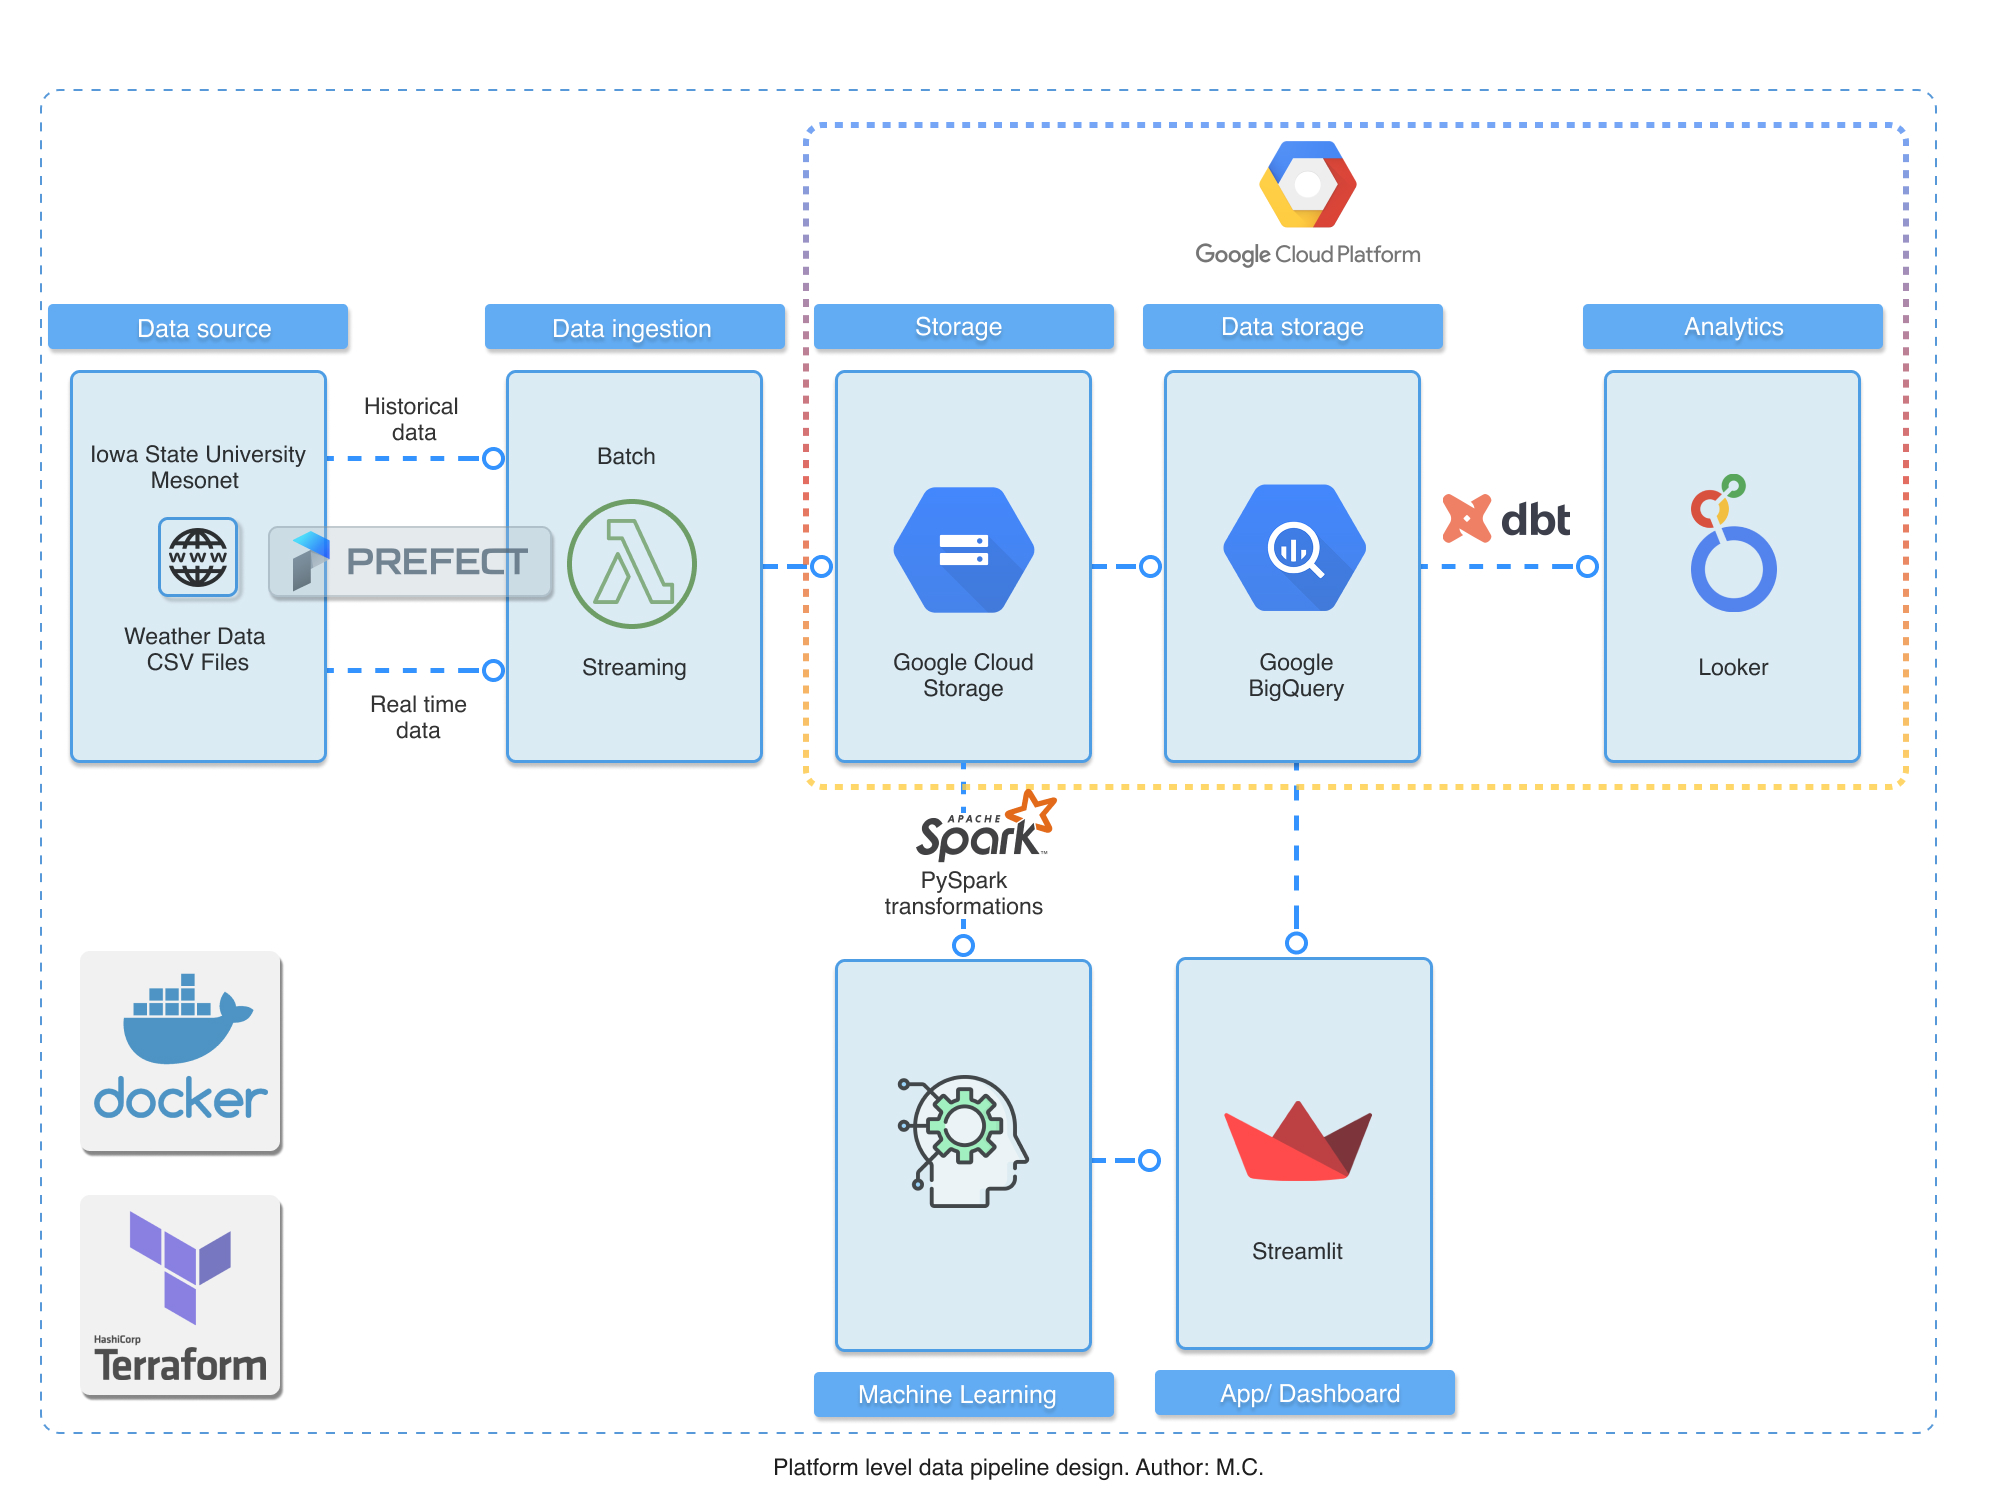
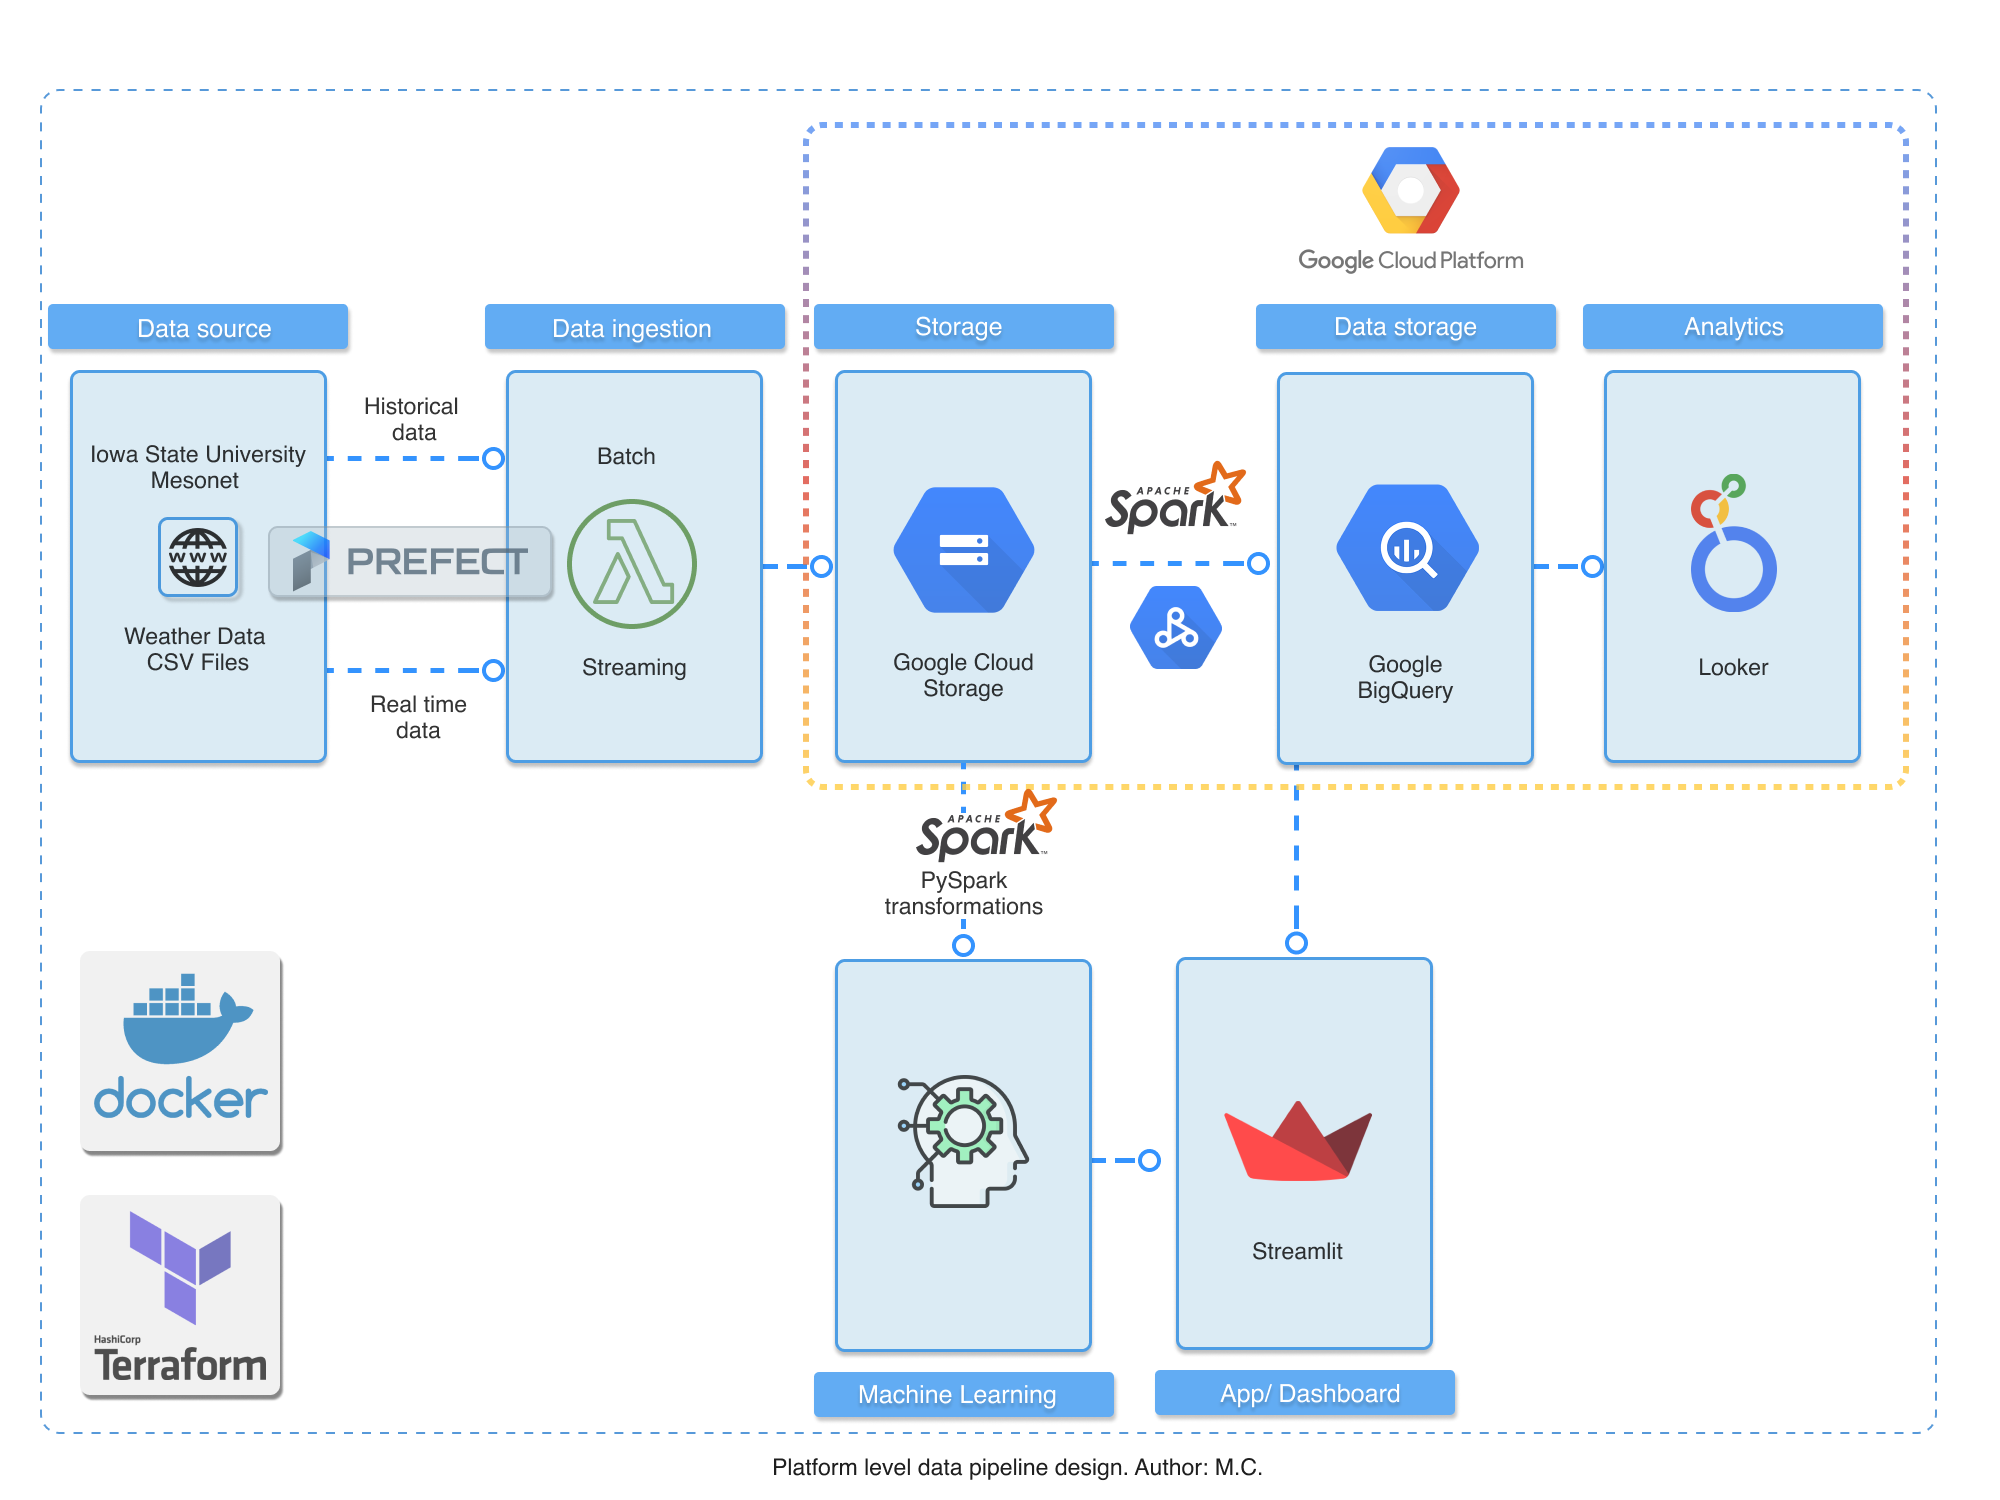
Feat: Update ELT

Changed region(s): [[0.558, 0.092, 0.806, 0.5213], [0.403, 0.9507, 0.62, 0.9813]]

diff --git a/README.md b/README.md
@@ -57,7 +57,7 @@ The project is divided into 3 phases according to the attached diagrams:
 ## 👉 Phase 1
 
 Retrieval of archive data from source. Initial transformation.
-Transfer of data to Data Lake - Google Cloud Storage. Transfer of data to Data Warehouse. Transformations using data build tools. Visualisation of aggregated data on an interactive dashboard in Looker.
+Transfer of data to Data Lake - Google Cloud Storage. Transfer of data to Data Warehouse. Transformations using PySpark on Dataproc cluster. Visualisation of aggregated data on an interactive dashboard in Looker.
 
 ![view2][Milestone_1_platform]
 
